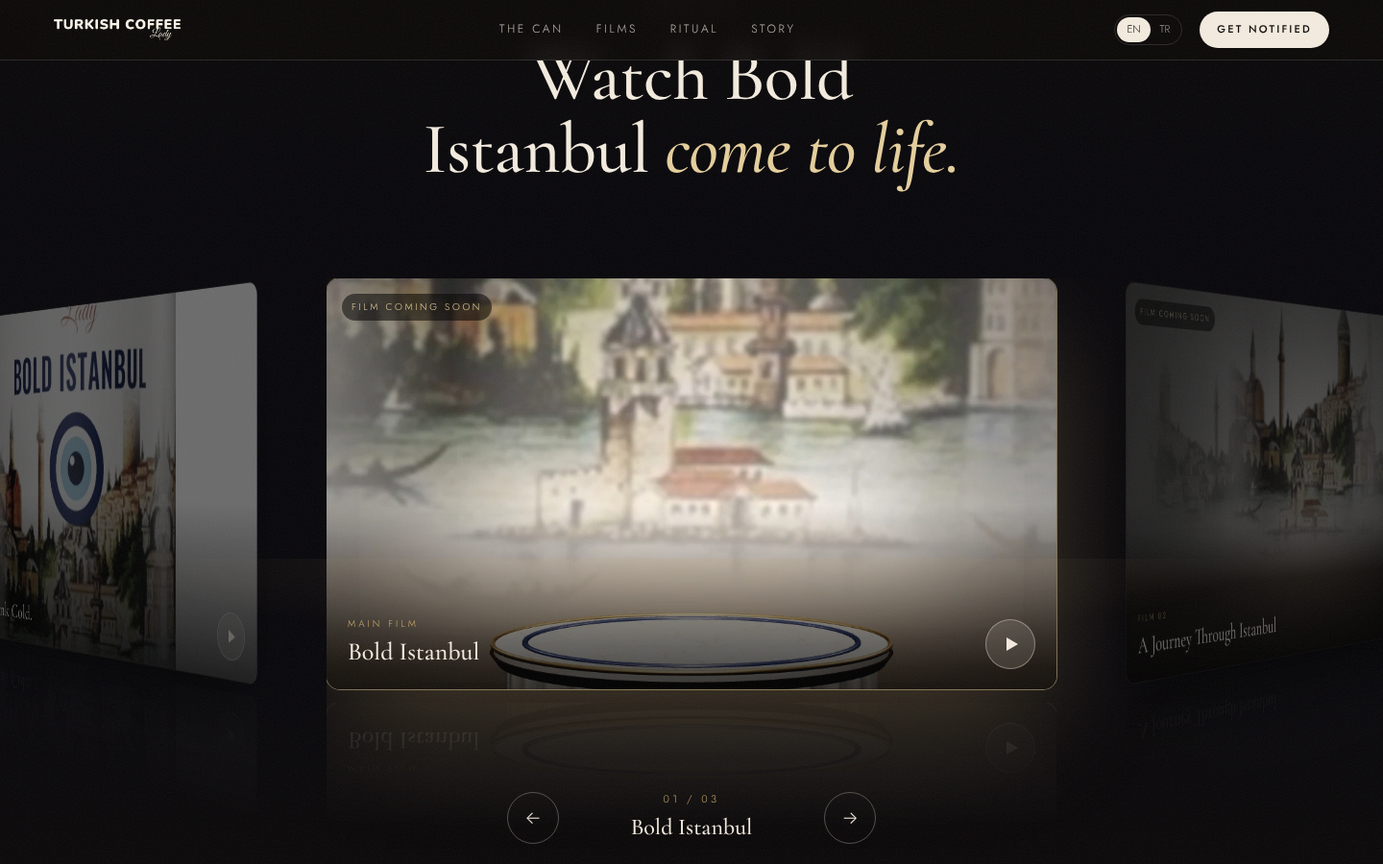
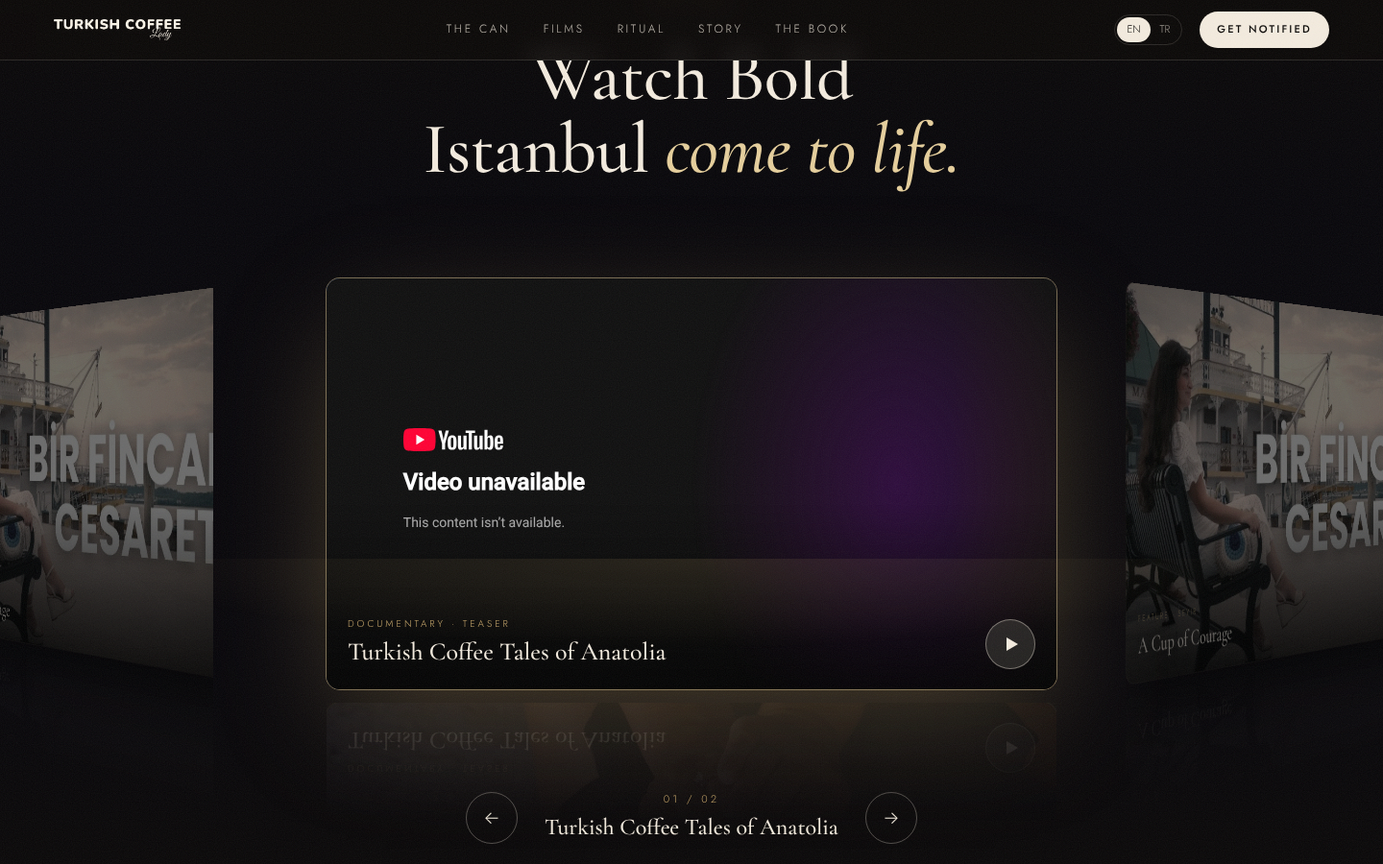
Add YouTube films to 3D ring, book section and founder timeline
Claude-Session: https://claude.ai/code/session_01XvnhNyh5iyKH4QNFHERUS4

diff --git a/turkishcoffeelady-us/main.js b/turkishcoffeelady-us/main.js
@@ -1,14 +1,12 @@
 /* Bold Istanbul · Turkish Coffee Lady — concept site */
 
 /* =====================================================
-   FILMS — add the commercial videos here.
-   Put files in /videos and list them below. `poster` is
-   shown until the video can play. ratio: '16/9' or '9/16'.
+   FILMS — YouTube video IDs. The front screen plays a muted
+   preview; clicking opens the film with sound.
    ===================================================== */
 const FILMS = [
-  { src: './videos/film-1.mp4', poster: './assets/photo-1.webp', title: { en: 'Bold Istanbul', tr: 'Bold Istanbul' },            tag: { en: 'Main film', tr: 'Ana film' } },
-  { src: './videos/film-2.mp4', poster: './assets/skyline.webp', title: { en: 'A Journey Through Istanbul', tr: 'İstanbul’da Bir Yolculuk' }, tag: { en: 'Film 02', tr: 'Film 02' } },
-  { src: './videos/film-3.mp4', poster: './assets/stage.webp', title: { en: 'Shake Well. Drink Cold.', tr: 'Çalkala. Soğuk İç.' }, tag: { en: 'Film 03', tr: 'Film 03' } },
+  { yt: 'X8lP0j7vcnA', poster: './assets/film-2.webp', title: { en: 'Turkish Coffee Tales of Anatolia', tr: 'Anadolu’nun Türk Kahvesi Hikâyeleri' }, tag: { en: 'Documentary · Teaser', tr: 'Belgesel · Fragman' } },
+  { yt: 'zXI4Pu0NAJY', poster: './assets/film-1.webp', title: { en: 'A Cup of Courage', tr: 'Bir Fincan Cesaret' }, tag: { en: 'Feature · Seyir', tr: 'Röportaj · Seyir' } },
 ];
 
 const LAUNCH = new Date('2026-12-05T00:00:00-05:00');
@@ -29,7 +27,7 @@ const TR = {
   'j.eyebrow': 'Boğaz’dan', 'j.title': 'Dünyaya kahve içmeyi <em>öğreten şehir.</em>',
   'j.t1': 'İlk kahvehaneler', 'j.p1': 'İstanbul dünyanın ilk kahvehanelerinden bazılarını açar. Kahve sohbete dönüşür.',
   'j.t2': 'İnsanlığın mirası', 'j.p2': 'UNESCO, Türk kahvesi kültürü ve geleneğini Somut Olmayan Kültürel Miras listesine alır.',
-  'j.t3': 'Şimdi buzlu', 'j.p3': 'Aynı koyu, kadifemsi lezzet; Amerika’nın bugün kahve içtiği gibi: soğuk ve yolda.',
+  'j.t3': 'Dünyada bir ilk: şişede soğuk', 'j.p3': 'Turkish Coffee Lady, dünyanın ilk şişelenmiş soğuk Türk kahvesi serisini yaratır (patent başvurusu sürüyor): aynı koyu, kadifemsi lezzet, Amerika’nın bugün kahve içtiği gibi.',
   'f.eyebrow': 'Filmler', 'f.title': 'Bold Istanbul’un <em>hayat bulduğu an.</em>', 'f.hint': 'Çevirmek için sürükle · sesli izlemek için ekrana dokun',
   'r.eyebrow': 'Ritüel', 'r.title': 'Çalkala. Soğuk iç. <em>Falına bak.</em>',
   'r.t1': 'Çalkala', 'r.p1': 'Türk kahvesi yoğundur. İyi bir çalkalama gövdeyi ve köpüğü uyandırır.',
@@ -37,10 +35,16 @@ const TR = {
   'r.t3': 'Fal', 'r.p3': 'Türkiye’de fincan hep bir falla biter. İşte seninki.',
   'r.wait': 'Falın fincanın dibinde seni bekliyor.', 'r.btn': 'Falıma bak', 'r.again': 'Bir daha bak',
   's.eyebrow': 'Hikâyemiz', 's.title': '“Bir fincan kahvenin <em>kırk yıl hatırı vardır.</em>”',
-  's.p1': 'Turkish Coffee Lady, Türk kahvesinin zengin kültürünü dünyada yaşatmak ve yeni nesillere taşımak için kurulan, 16 yıllık birikime sahip global bir marka.',
+  's.p1': 'Turkish Coffee Lady, 2007’den bu yana Türk kahvesinin zengin kültürünü dünyada yaşatmak ve yeni nesillere taşımak için çalışan global bir marka.',
   's.p2': 'Buzlu seri, 2025’te InvestBev hızlandırma programıyla bir araya gelen ekiple hayata geçti ve ABD’de sıfır şekerli Bold Istanbul ile raflara çıkıyor.',
   's.role': 'Kurucu · Turkish Coffee Lady',
-  's.l1': 'Kurucunun Türk kahvesi elçiliği başlıyor', 's.l2': 'Turkish Coffee Lady Kültür Evi', 's.l3': 'InvestBev hızlandırma programı', 's.l4': 'Bold Istanbul ABD’de raflarda',
+  's.l1': 'Her şey Boston’da bir fincan kahveyle başladı', 's.l2': 'İlk Türk Kahvesi Kamyonu Amerika’yı dolaştı', 's.l3': 'Kadınları güçlendirmek için ABD’deki ilk Türk kahvesi dükkânı',
+  's.l4': 'Dünyanın ilk kahve diplomasisi vakfı: Turkish Coffee Lady Foundation', 's.l5': 'Old Town Alexandria’da bir Türk kültür evi', 's.l6': 'Dünyanın ilk şişelenmiş soğuk Türk kahvesi serisi (patent başvurusu sürüyor)',
+  's.l7': 'TOA Awards tarafından Amerika’nın En Etkili 100 Türk’ünden biri seçildi',
+  'nav.book': 'Kitap', 'bk.eyebrow': 'Kitap · Gizem Şalcıgil White', 'bk.sub': 'Bir fincan cesaretle.',
+  'bk.p1': 'Bir kadın göçmenin Amerika’daki girişimcilik hikâyesi. Gizem, 20 yılı aşkın süredir gastrodiplomasi çalışmaları ve bir kahve kamyonuyla Türk kahvesi kültürünü dünyaya anlatıyor.',
+  'bk.p2': 'Hayalini Demle; bir anne girişimcinin önyargılarla mücadelesini, göçmenliğin gerçekleriyle yüzleşirken kanseri yenmesini ve ekonomik zorlukların üstesinden gelip sıfırdan bir marka kurmasını anlatıyor. Girişimci olmak isteyen tüm kadınlara: korkuyla yüzleş, hayalinden vazgeçme.',
+  'bk.q': '“Bir fincan cesaretle başlayan yolculuk.”',
   'l.eyebrow': '5 Aralık · Dünya Türk Kahvesi Günü', 'l.title': 'ABD’ye iniyor',
   'l.d': 'Gün', 'l.h': 'Saat', 'l.m': 'Dakika', 'l.s': 'Saniye', 'l.btn': 'Bana haber ver', 'l.zip': 'Posta kodu',
   'l.ok': 'Teşekkürler! Bold Istanbul raflara çıktığında ilk sen duyacaksın.', 'l.err': 'Bir sorun oldu, lütfen tekrar dene.', 'l.live': 'Şimdi raflarda',
@@ -344,79 +348,83 @@ async function initThree() {
 }
 
 /* ---------------- films: 3D ring ---------------- */
+const ytSrc = (id, preview) => preview
+  ? `https://www.youtube-nocookie.com/embed/${id}?autoplay=1&mute=1&controls=0&loop=1&playlist=${id}&playsinline=1&rel=0&iv_load_policy=3&disablekb=1&modestbranding=1`
+  : `https://www.youtube-nocookie.com/embed/${id}?autoplay=1&playsinline=1&rel=0&modestbranding=1`;
 const films = (() => {
   const ring = document.getElementById('ring');
   const stage = document.getElementById('stage3d');
   const nameEl = document.getElementById('filmName');
   const countEl = document.getElementById('filmCount');
-  const N = FILMS.length;
-  const STEP = 38; // degrees between screens
-  let pw = 0, ph = 0, radius = 0, cur = 0, target = 0, front = -1;
-  const panels = FILMS.map((f, i) => {
+  const NF = FILMS.length;
+  // repeat the list so the ring always has screens on both sides
+  const slots = []; while (slots.length < 4) FILMS.forEach((_, i) => slots.push(i));
+  const N = slots.length;
+  const STEP = 38;
+  let pw = 0, ph = 0, radius = 0, cur = 0, target = 0, front = -1, moved = false;
+  const mod = (a, n) => ((a % n) + n) % n;
+  const panels = slots.map((fi, i) => {
+    const f = FILMS[fi];
     const el = document.createElement('div');
     el.className = 'panel';
-    el.innerHTML = `<img src="${f.poster}" alt="" loading="lazy" /><span class="panel__soon" hidden></span>
+    el.innerHTML = `<img src="${f.poster}" alt="" loading="lazy" />
       <div class="panel__label"><span><small></small><b></b></span><i class="panel__play"></i></div>`;
-    const vid = document.createElement('video');
-    vid.muted = true; vid.loop = true; vid.playsInline = true; vid.preload = 'metadata'; vid.poster = f.poster;
-    vid.setAttribute('playsinline', '');
-    vid.hidden = true;
-    el.prepend(vid);
-    f.ok = false;
-    vid.addEventListener('loadeddata', () => { f.ok = true; vid.hidden = false; el.querySelector('img').hidden = true; el.querySelector('.panel__soon').hidden = true; if (i === front) vid.play().catch(() => {}); });
-    vid.addEventListener('error', () => { f.ok = false; const s = el.querySelector('.panel__soon'); s.hidden = false; s.textContent = lang === 'tr' ? 'Film yakında' : 'Film coming soon'; });
-    const src = document.createElement('source'); src.src = f.src; src.type = 'video/mp4'; src.addEventListener('error', () => vid.dispatchEvent(new Event('error')));
-    vid.appendChild(src);
-    el.addEventListener('click', () => { if (moved) return; if (i === Math.round(mod(cur, N))) open(i); else go(i); });
+    el.addEventListener('click', () => { if (moved) return; if (i === Math.round(mod(cur, N))) open(fi); else go(i); });
     ring.appendChild(el);
-    return { el, vid };
+    return { el, fi, iframe: null };
   });
-  const mod = (a, n) => ((a % n) + n) % n;
+
+  function setPreview(p, on) {
+    if (on && !p.iframe) {
+      const fr = document.createElement('iframe');
+      fr.allow = 'autoplay; encrypted-media; picture-in-picture';
+      fr.title = FILMS[p.fi].title.en; fr.tabIndex = -1;
+      fr.src = ytSrc(FILMS[p.fi].yt, true);
+      fr.addEventListener('load', () => setTimeout(() => fr.classList.add('on'), 1400));
+      p.el.insertBefore(fr, p.el.querySelector('.panel__label'));
+      p.iframe = fr;
+    } else if (!on && p.iframe) { p.iframe.remove(); p.iframe = null; }
+  }
 
   function layout() {
-    const w = stage.clientWidth;
-    pw = Math.min(760, w * (innerWidth < 900 ? 0.78 : 0.56));
+    pw = Math.min(760, stage.clientWidth * (innerWidth < 900 ? 0.78 : 0.56));
     ph = pw * 9 / 16;
     radius = (pw / 2) / Math.tan((STEP * Math.PI / 180) / 2) * 1.12;
-    ring.style.setProperty('--pw', pw + 'px'); ring.style.setProperty('--ph', ph + 'px');
     panels.forEach((p) => { p.el.style.setProperty('--pw', pw + 'px'); p.el.style.setProperty('--ph', ph + 'px'); });
   }
   function relabel() {
-    panels.forEach((p, i) => {
-      p.el.querySelector('small').textContent = FILMS[i].tag[lang];
-      p.el.querySelector('b').textContent = FILMS[i].title[lang];
-      const s = p.el.querySelector('.panel__soon'); if (!s.hidden) s.textContent = lang === 'tr' ? 'Film yakında' : 'Film coming soon';
+    panels.forEach((p) => {
+      p.el.querySelector('small').textContent = FILMS[p.fi].tag[lang];
+      p.el.querySelector('b').textContent = FILMS[p.fi].title[lang];
     });
     update(true);
   }
+  let previewTimer = 0;
   function update(force) {
-    // shortest offset of each panel from current position
     panels.forEach((p, i) => {
       let d = i - cur; d = d - Math.round(d / N) * N;
-      const ang = d * STEP;
       const op = Math.max(0, 1 - Math.max(0, Math.abs(d) - 1.2) * 0.9);
-      p.el.style.transform = `rotateY(${ang}deg) translateZ(${radius}px)`;
+      p.el.style.transform = `rotateY(${d * STEP}deg) translateZ(${radius}px)`;
       p.el.style.opacity = op;
       p.el.style.visibility = op <= 0.01 ? 'hidden' : 'visible';
-      p.el.style.zIndex = String(100 - Math.round(Math.abs(d) * 10));
     });
     ring.style.transform = `translateZ(${-radius}px)`;
     const f = Math.round(mod(cur, N));
     if (f !== front || force) {
       front = f;
-      panels.forEach((p, i) => { p.el.classList.toggle('is-front', i === f); if (i === f && FILMS[i].ok) p.vid.play().catch(() => {}); else p.vid.pause(); });
-      countEl.textContent = `${String(f + 1).padStart(2, '0')} / ${String(N).padStart(2, '0')}`;
-      nameEl.textContent = FILMS[f].title[lang];
+      panels.forEach((p, i) => { p.el.classList.toggle('is-front', i === f); if (i !== f) setPreview(p, false); });
+      clearTimeout(previewTimer);
+      previewTimer = setTimeout(() => { if (inView && lb.hidden) setPreview(panels[front], true); }, 700);
+      const fi = panels[f].fi;
+      countEl.textContent = `${String(fi + 1).padStart(2, '0')} / ${String(NF).padStart(2, '0')}`;
+      nameEl.textContent = FILMS[fi].title[lang];
     }
   }
-  function go(i) {
-    let d = i - mod(target, N); d = d - Math.round(d / N) * N; target += d;
-  }
+  function go(i) { let d = i - mod(target, N); d = d - Math.round(d / N) * N; target += d; }
   document.getElementById('prevFilm').addEventListener('click', () => { target = Math.round(target) - 1; });
   document.getElementById('nextFilm').addEventListener('click', () => { target = Math.round(target) + 1; });
 
-  // drag
-  let dragging = false, sx = 0, st = 0, moved = false;
+  let dragging = false, sx = 0, st = 0;
   stage.addEventListener('pointerdown', (e) => { dragging = true; moved = false; sx = e.clientX; st = target; });
   addEventListener('pointermove', (e) => {
     if (!dragging) return;
@@ -425,39 +433,30 @@ const films = (() => {
   });
   addEventListener('pointerup', () => { if (!dragging) return; dragging = false; target = Math.round(target); setTimeout(() => (moved = false), 0); });
 
-  // run only when in view
   let inView = false;
-  new IntersectionObserver(([e]) => { inView = e.isIntersecting; if (!inView) panels.forEach((p) => p.vid.pause()); else update(true); }).observe(stage);
+  new IntersectionObserver(([e]) => {
+    inView = e.isIntersecting;
+    if (!inView) panels.forEach((p) => setPreview(p, false)); else update(true);
+  }, { threshold: 0.25 }).observe(stage);
   (function loop() {
-    if (inView) {
-      const d = target - cur;
-      if (Math.abs(d) > 0.0005) { cur += d * 0.1; update(); }
-    }
+    if (inView) { const d = target - cur; if (Math.abs(d) > 0.0005) { cur += d * 0.1; update(); } }
     requestAnimationFrame(loop);
   })();
   addEventListener('resize', () => { layout(); update(true); });
-  layout(); relabel();
 
-  // lightbox
   const lb = document.getElementById('lightbox');
   const frame = document.getElementById('lbFrame');
-  function open(i) {
-    const f = FILMS[i];
+  function open(fi) {
+    const f = FILMS[fi];
     frame.innerHTML = '';
-    if (f.ok) {
-      const v = document.createElement('video');
-      v.src = f.src; v.controls = true; v.autoplay = true; v.playsInline = true; v.poster = f.poster;
-      frame.appendChild(v);
-    } else {
-      const im = document.createElement('img'); im.src = f.poster; im.alt = f.title[lang]; frame.appendChild(im);
-    }
-    panels.forEach((p) => p.vid.pause());
+    const fr = document.createElement('iframe');
+    fr.src = ytSrc(f.yt, false); fr.title = f.title[lang];
+    fr.allow = 'autoplay; encrypted-media; picture-in-picture; fullscreen'; fr.allowFullscreen = true;
+    frame.appendChild(fr);
+    panels.forEach((p) => setPreview(p, false));
     lb.hidden = false; document.body.style.overflow = 'hidden';
   }
-  function close() {
-    lb.hidden = true; frame.innerHTML = ''; document.body.style.overflow = '';
-    update(true);
-  }
+  function close() { lb.hidden = true; frame.innerHTML = ''; document.body.style.overflow = ''; update(true); }
   document.getElementById('lbClose').addEventListener('click', close);
   lb.addEventListener('click', (e) => { if (e.target === lb) close(); });
   addEventListener('keydown', (e) => {
@@ -465,6 +464,8 @@ const films = (() => {
     if (lb.hidden && inView && e.key === 'ArrowRight') target = Math.round(target) + 1;
     if (lb.hidden && inView && e.key === 'ArrowLeft') target = Math.round(target) - 1;
   });
+  document.querySelectorAll('[data-open-film]').forEach((a) => a.addEventListener('click', (e) => { e.preventDefault(); open(+a.dataset.openFilm); }));
+  layout(); relabel();
   return { relabel };
 })();
 

diff --git a/turkishcoffeelady-us/index.html b/turkishcoffeelady-us/index.html
@@ -41,6 +41,7 @@
       <a href="#films" data-i18n="nav.films">Films</a>
       <a href="#ritual" data-i18n="nav.ritual">Ritual</a>
       <a href="#story" data-i18n="nav.story">Story</a>
+      <a href="#book" data-i18n="nav.book">The Book</a>
     </nav>
     <div class="nav__right">
       <div class="lang" role="group" aria-label="Language">
@@ -67,7 +68,7 @@
         <p class="hero__lead" data-i18n="hero.lead">Five centuries of Turkish coffee, poured cold. Dark, rich and made with nothing but the good stuff.</p>
         <div class="hero__cta">
           <a href="#launch" class="btn" data-i18n="hero.cta">Be first in line</a>
-          <a href="#films" class="btn btn--ghost"><span class="play-ico"></span><span data-i18n="hero.film">Watch the film</span></a>
+          <a href="#films" class="btn btn--ghost" data-open-film="0"><span class="play-ico"></span><span data-i18n="hero.film">Watch the film</span></a>
         </div>
       </div>
       <div class="hero__badges">
@@ -110,7 +111,7 @@
         <div class="journey__steps">
           <article class="reveal"><span>1554</span><h3 data-i18n="j.t1">The first coffeehouses</h3><p data-i18n="j.p1">Istanbul opens some of the world's first coffeehouses. Coffee becomes conversation.</p></article>
           <article class="reveal"><span>2013</span><h3 data-i18n="j.t2">A heritage of humanity</h3><p data-i18n="j.p2">UNESCO recognizes Turkish coffee culture and tradition as Intangible Cultural Heritage.</p></article>
-          <article class="reveal"><span>2026</span><h3 data-i18n="j.t3">Now, iced</h3><p data-i18n="j.p3">The same deep, velvety brew, made for the way America drinks coffee today: cold and on the go.</p></article>
+          <article class="reveal"><span>2025</span><h3 data-i18n="j.t3">The world’s first, bottled cold</h3><p data-i18n="j.p3">Turkish Coffee Lady creates the world’s first bottled cold Turkish coffee line (patent pending): the same deep, velvety brew, made for how America drinks coffee today.</p></article>
         </div>
       </div>
     </section>
@@ -128,12 +129,12 @@
       <div class="films__ctrl">
         <button class="circle-btn" id="prevFilm" aria-label="Previous film">←</button>
         <div class="films__info">
-          <span class="films__count" id="filmCount">01 / 03</span>
+          <span class="films__count" id="filmCount">01 / 02</span>
           <span class="films__name" id="filmName">—</span>
         </div>
         <button class="circle-btn" id="nextFilm" aria-label="Next film">→</button>
       </div>
-      <p class="films__hint" data-i18n="f.hint">Drag to turn · tap a screen to watch with sound</p>
+      <p class="films__hint" data-i18n="f.hint">Drag to turn · tap the screen to watch with sound</p>
     </section>
 
     <!-- RITUAL -->
@@ -163,18 +164,45 @@
       <div class="story__text">
         <p class="eyebrow reveal" data-i18n="s.eyebrow">Our story</p>
         <h2 class="display reveal" data-i18n="s.title">“A cup of coffee is remembered <em>for forty years.</em>”</h2>
-        <p class="body reveal" data-i18n="s.p1">Turkish Coffee Lady is a global brand, 16 years in the making, founded to keep the rich culture of Turkish coffee alive around the world and carry it to new generations.</p>
+        <p class="body reveal" data-i18n="s.p1">Since 2007, Turkish Coffee Lady has worked to keep the rich culture of Turkish coffee alive around the world and carry it to new generations.</p>
         <p class="body reveal" data-i18n="s.p2">The iced line came to life with the team formed through the InvestBev accelerator in 2025, and launches in the US with zero-sugar Bold Istanbul.</p>
         <div class="founder reveal">
+          <img src="./assets/founder.webp" alt="Gizem Şalcıgil White" class="founder__img" loading="lazy" />
           <span class="founder__name">Gizem Şalcıgil White</span>
           <span class="founder__role" data-i18n="s.role">Founder · Turkish Coffee Lady</span>
         </div>
         <ol class="timeline">
-          <li class="reveal"><b>2009</b><span data-i18n="s.l1">Founder begins her Turkish coffee ambassadorship</span></li>
-          <li class="reveal"><b>Alexandria, VA</b><span data-i18n="s.l2">Turkish Coffee Lady Culture House</span></li>
-          <li class="reveal"><b>2025</b><span data-i18n="s.l3">InvestBev accelerator program</span></li>
-          <li class="reveal"><b>Dec 5</b><span data-i18n="s.l4">Bold Istanbul launches in the USA</span></li>
+          <li class="reveal"><b>2007</b><span data-i18n="s.l1">It all began with a cup of coffee in Boston</span></li>
+          <li class="reveal"><b>2012</b><span data-i18n="s.l2">The first Turkish Coffee Truck tours the United States</span></li>
+          <li class="reveal"><b>2017</b><span data-i18n="s.l3">The first Turkish coffee shop in the US, built to empower women</span></li>
+          <li class="reveal"><b>2020</b><span data-i18n="s.l4">Turkish Coffee Lady Foundation, the world’s first coffee diplomacy foundation</span></li>
+          <li class="reveal"><b>2021</b><span data-i18n="s.l5">A Turkish culture house opens in Old Town Alexandria</span></li>
+          <li class="reveal"><b>2025</b><span data-i18n="s.l6">The world’s first bottled cold Turkish coffee line (patent pending)</span></li>
+          <li class="reveal"><b>2026</b><span data-i18n="s.l7">Named one of America’s 100 Most Influential Turks by TOA Awards</span></li>
         </ol>
+      </div>
+    </section>
+
+    <!-- BOOK -->
+    <section class="book-sec" id="book">
+      <div class="book-wrap reveal">
+        <div class="book" id="book3d">
+          <div class="book__inner">
+            <div class="book__face book__front"><img src="./assets/book-cover.webp" alt="Hayalini Demle book cover" loading="lazy" /></div>
+            <div class="book__face book__spine" style="background-image:url(./assets/book-spine.webp)"></div>
+            <div class="book__face book__pages"></div>
+            <div class="book__face book__top"></div>
+            <div class="book__face book__back"></div>
+          </div>
+          <div class="book__shadow"></div>
+        </div>
+      </div>
+      <div class="book-sec__text">
+        <p class="eyebrow reveal" data-i18n="bk.eyebrow">The book · by Gizem Şalcıgil White</p>
+        <h2 class="display reveal">Hayalini Demle<br /><em data-i18n="bk.sub">Brew Your Dream.</em></h2>
+        <p class="body reveal" data-i18n="bk.p1">A woman immigrant’s entrepreneurship story in America. For more than twenty years, Gizem has carried Turkish coffee culture around the world through gastrodiplomacy and a coffee truck.</p>
+        <p class="body reveal" data-i18n="bk.p2">Hayalini Demle tells how a mother and entrepreneur faced prejudice, the realities of immigration, beat cancer and overcame financial hardship to build a brand from scratch. An invitation to every woman who wants to start something: face the fear, keep the dream.</p>
+        <p class="book-sec__quote reveal" data-i18n="bk.q">“A journey that began with one cup of courage.”</p>
       </div>
     </section>
 

diff --git a/turkishcoffeelady-us/style.css b/turkishcoffeelady-us/style.css
@@ -187,6 +187,8 @@ body.ready .hero__word--b { transform: translateX(4vw); }
   transition: filter .6s, box-shadow .6s;
   -webkit-box-reflect: below 14px linear-gradient(transparent 70%, rgba(255,255,255,.14));
 }
+.panel iframe { position: absolute; inset: -12% -2%; width: 104%; height: 124%; border: 0; pointer-events: none; opacity: 0; transition: opacity 1.2s; }
+.panel iframe.on { opacity: 1; }
 .panel video, .panel img { width: 100%; height: 100%; object-fit: cover; pointer-events: none; }
 .panel::after { content: ""; position: absolute; inset: 0; background: linear-gradient(180deg, transparent 55%, rgba(0,0,0,.75)); }
 .panel:not(.is-front) { filter: brightness(.42) saturate(.7); }
@@ -210,6 +212,7 @@ body.ready .hero__word--b { transform: translateX(4vw); }
 .lightbox { position: fixed; inset: 0; z-index: 90; background: rgba(5, 4, 3, .94); backdrop-filter: blur(10px); -webkit-backdrop-filter: blur(10px); display: grid; place-items: center; padding: 70px var(--gutter) 40px; animation: fade .4s var(--ease); }
 .lightbox[hidden] { display: none; }
 .lightbox__frame { width: min(1200px, 100%); max-height: 100%; display: grid; place-items: center; }
+.lightbox__frame iframe { width: 100%; aspect-ratio: 16/9; height: auto; max-height: calc(100svh - 120px); border: 0; border-radius: 12px; box-shadow: 0 40px 120px rgba(0,0,0,.8); }
 .lightbox__frame video, .lightbox__frame img { max-width: 100%; max-height: calc(100svh - 120px); border-radius: 12px; box-shadow: 0 40px 120px rgba(0,0,0,.8); }
 .lightbox__close { position: absolute; top: 18px; right: var(--gutter); width: 48px; height: 48px; border-radius: 50%; border: 1px solid rgba(244,236,223,.3); font-size: 26px; line-height: 1; }
 @keyframes fade { from { opacity: 0; } }
@@ -235,12 +238,32 @@ body.ready .hero__word--b { transform: translateX(4vw); }
 .story__photos img { border-radius: 14px; aspect-ratio: 667/1200; object-fit: cover; background: #fff; }
 .story__photos img:last-child { margin-top: 14vh; }
 .story .display { font-size: clamp(34px, 4vw, 58px); }
-.founder { margin-top: 34px; display: grid; gap: 2px; }
+.founder { margin-top: 34px; display: grid; grid-template-columns: auto 1fr; column-gap: 18px; align-items: center; }
+.founder__img { grid-row: span 2; width: 72px; height: 72px; border-radius: 50%; object-fit: cover; object-position: 50% 20%; border: 1px solid var(--gold); }
 .founder__name { font-family: var(--serif); font-size: 28px; }
 .founder__role { font-size: 11px; letter-spacing: .3em; text-transform: uppercase; color: var(--gold); }
 .timeline { list-style: none; margin-top: 34px; border-top: 1px solid var(--faint); }
 .timeline li { display: grid; grid-template-columns: 140px 1fr; gap: 16px; padding: 14px 0; border-bottom: 1px solid var(--faint); font-size: 14px; color: var(--muted); }
 .timeline b { font-weight: 500; color: var(--ink); }
+
+/* ---------- book ---------- */
+.book-sec { z-index: 3; display: grid; grid-template-columns: 1fr 1fr; gap: clamp(32px, 6vw, 100px); align-items: center; padding: 14vh var(--gutter); max-width: 1400px; margin: 0 auto; background: var(--bg); }
+.book-wrap { display: grid; place-items: center; perspective: 1800px; padding: 40px 0; }
+.book { position: relative; --bw: min(340px, 64vw); --bh: calc(var(--bw) * 1.606); --bd: 34px; width: var(--bw); height: var(--bh); }
+.book__inner { position: absolute; inset: 0; transform-style: preserve-3d; transform: rotateY(var(--ry, 32deg)) rotateX(4deg); transition: transform 1.2s var(--ease); }
+.book:hover .book__inner { --ry: 8deg; }
+.book__face { position: absolute; backface-visibility: hidden; -webkit-backface-visibility: hidden; }
+.book__front { inset: 0; transform: translateZ(calc(var(--bd) / 2)); border-radius: 2px 6px 6px 2px; overflow: hidden; box-shadow: inset 4px 0 10px rgba(0,0,0,.25); }
+.book__front img { width: 100%; height: 100%; object-fit: cover; }
+.book__front::after { content: ""; position: absolute; inset: 0; background: linear-gradient(105deg, rgba(255,255,255,.0) 40%, rgba(255,255,255,.22) 50%, rgba(255,255,255,0) 60%); background-size: 250% 100%; background-position: 100% 0; transition: background-position 1.4s var(--ease); }
+.book:hover .book__front::after { background-position: 0 0; }
+.book__spine { top: 0; left: 0; width: var(--bd); height: 100%; background-size: cover; background-position: center; transform: rotateY(-90deg) translateZ(calc(var(--bd) / 2)) translateX(calc(var(--bd) / -2)); transform-origin: center; left: calc(var(--bd) / -2 + 0px); }
+.book__spine { left: 0; transform: translateX(calc(var(--bd) / -2)) rotateY(-90deg); }
+.book__pages { top: 3px; right: 0; width: calc(var(--bd) - 4px); height: calc(100% - 6px); background: repeating-linear-gradient(90deg, #efe6d6 0 1px, #d8ccb6 1px 2px); transform: translateX(calc(var(--bd) / 2 - 2px)) rotateY(90deg); }
+.book__top { left: 0; top: 0; width: 100%; height: var(--bd); background: #e8dcc6; transform: translateY(calc(var(--bd) / -2)) rotateX(90deg); }
+.book__back { inset: 0; background: #6b4632; transform: translateZ(calc(var(--bd) / -2)) rotateY(180deg); }
+.book__shadow { position: absolute; left: 10%; right: -10%; bottom: -34px; height: 40px; background: radial-gradient(closest-side, rgba(0,0,0,.7), transparent); filter: blur(6px); }
+.book-sec__quote { margin-top: 28px; font-family: var(--serif); font-style: italic; font-size: 24px; color: var(--gold-2); }
 
 /* ---------- launch ---------- */
 
@@ -290,7 +313,7 @@ body.ready .hero__word--b { transform: translateX(4vw); }
   .journey { padding: 52vh var(--gutter) 10vh; min-height: auto; }
   .specs__list b { font-size: 40px; }
   .ritual__grid { grid-template-columns: 1fr; }
-  .story { grid-template-columns: 1fr; }
+  .story, .book-sec { grid-template-columns: 1fr; }
   .story__photos img:last-child { margin-top: 8vh; }
   .timeline li { grid-template-columns: 110px 1fr; }
   .notify { border-radius: 20px; flex-direction: column; width: 100%; max-width: 420px; }
